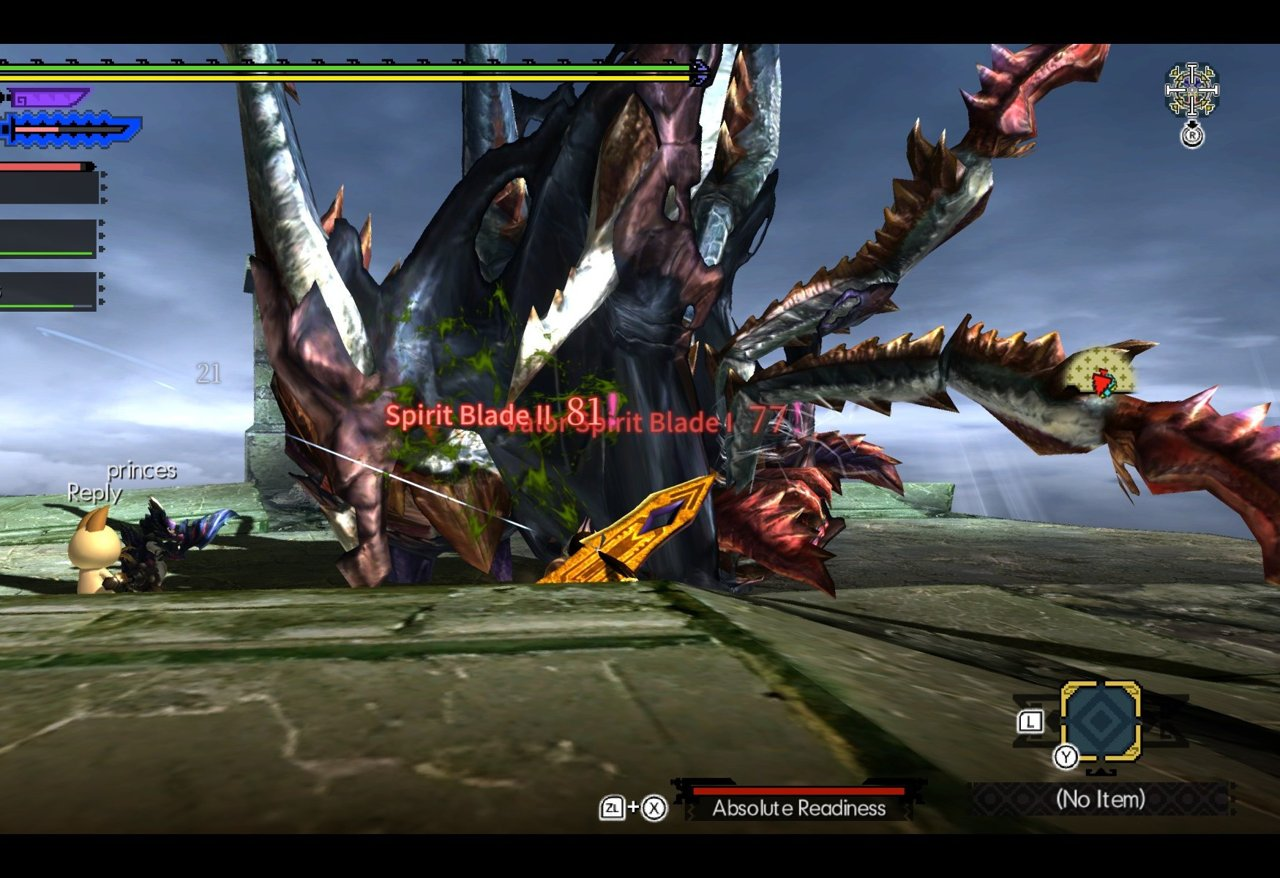
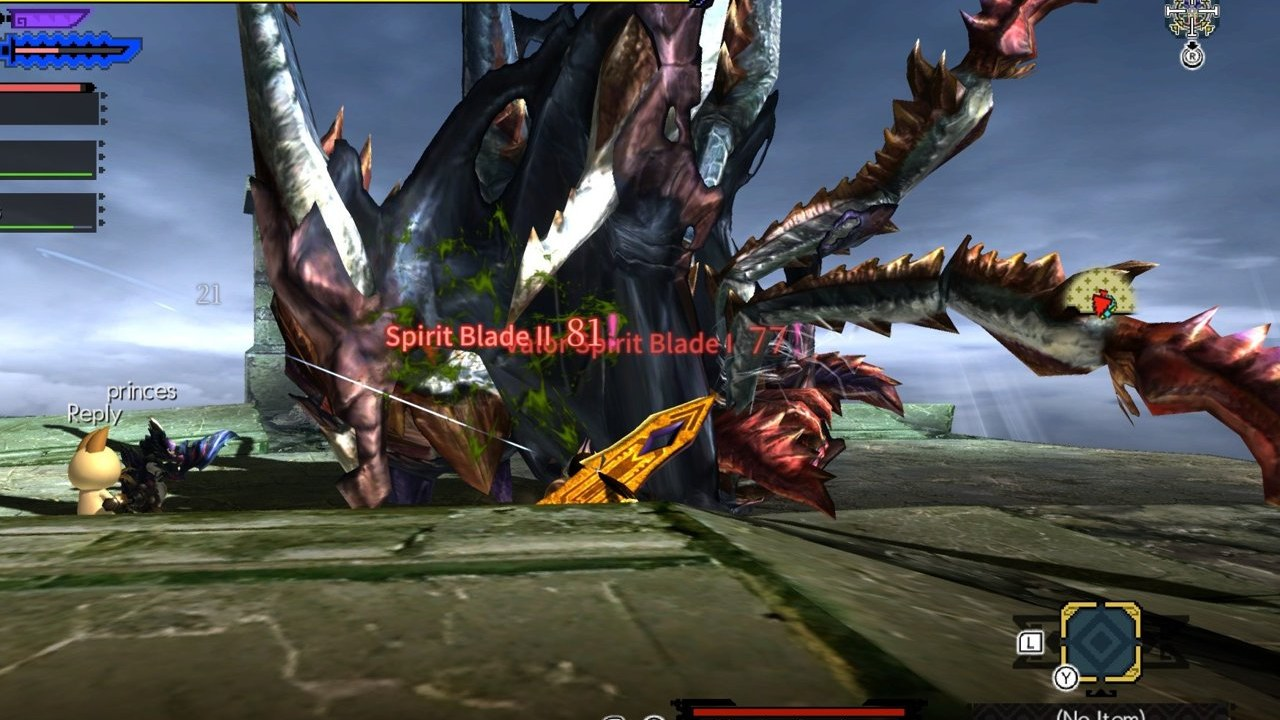
Crop all previews to 16:9
Claude-Session: https://claude.ai/code/session_01LtPZ78rfpYpMTwCpjw6hd4

diff --git a/scripts/fetch_previews.py b/scripts/fetch_previews.py
@@ -1,4 +1,4 @@
-"""Find a screenshot for each mod and save it as mods/<slug>/preview.jpg.
+"""Find a screenshot for each mod and save it as a 16:9 mods/<slug>/preview.jpg.
 
 Sources, in order: a screenshot uploaded with the submission form, the first
 screenshot on the mod's GameBanana page, then the first real image in the
@@ -90,10 +90,24 @@ def find_image(page_text, uploaded_text=""):
     return None
 
 
+def crop_16_9(image):
+    """Center-crop to 16:9 so every preview has the same shape, then cap the size."""
+    width, height = image.size
+    if width * 9 > height * 16:  # too wide: trim the sides
+        new_width = height * 16 // 9
+        left = (width - new_width) // 2
+        image = image.crop((left, 0, left + new_width, height))
+    else:  # too tall: trim top and bottom
+        new_height = width * 9 // 16
+        top = (height - new_height) // 2
+        image = image.crop((0, top, width, top + new_height))
+    image.thumbnail((1280, 720))
+    return image
+
+
 def attach(slug, data):
     """Save the image and show it on the mod's card and page."""
-    image = Image.open(io.BytesIO(data)).convert("RGB")
-    image.thumbnail((1280, 1280))
+    image = crop_16_9(Image.open(io.BytesIO(data)).convert("RGB"))
     image.save(ROOT / "mods" / slug / "preview.jpg", quality=85)
     readme = ROOT / "README.md"
     text = readme.read_text(encoding="utf-8")

diff --git a/CONTRIBUTING.md b/CONTRIBUTING.md
@@ -16,7 +16,7 @@ If you'd rather open a pull request yourself, follow these rules to keep the lis
 4. **Add a card** in the main [README.md](README.md), keeping the cards in alphabetical order.
 5. **Credit the author.** Name them and link their profile. If you're not the author, don't re-describe the mod as your own work.
 6. **Set a status.** Use 🟢 when everything works, 🟡 when some features are missing or broken, and 🔴 when the mod doesn't work. For 🟡 and 🔴, list what's wrong under "Known issues".
-7. **Add a preview image (optional).** Save one screenshot as `mods/<mod-name>/preview.jpg` (resize to at most 1280 px wide, under 500 KB). Use your own screenshot or one the author is fine with you reusing. In the main README, each mod is a card (a small HTML table with the image on the left and the details on the right). Copy an existing card; leave `No preview yet` in the image cell until there is a screenshot.
+7. **Add a preview image (optional).** Save one screenshot as `mods/<mod-name>/preview.jpg`, cropped to 16:9 (at most 1280×720, under 500 KB; the bot crops its own images the same way). Use your own screenshot or one the author is fine with you reusing. In the main README, each mod is a card (a small HTML table with the image on the left and the details on the right). Copy an existing card; leave `No preview yet` in the image cell until there is a screenshot.
 8. **Updating an entry.** If you tested a mod on a newer recomp version or another platform, add a row to its "Tested with" table instead of replacing the old one.
 
 Open a pull request with your changes. One mod per pull request is easiest to review.
